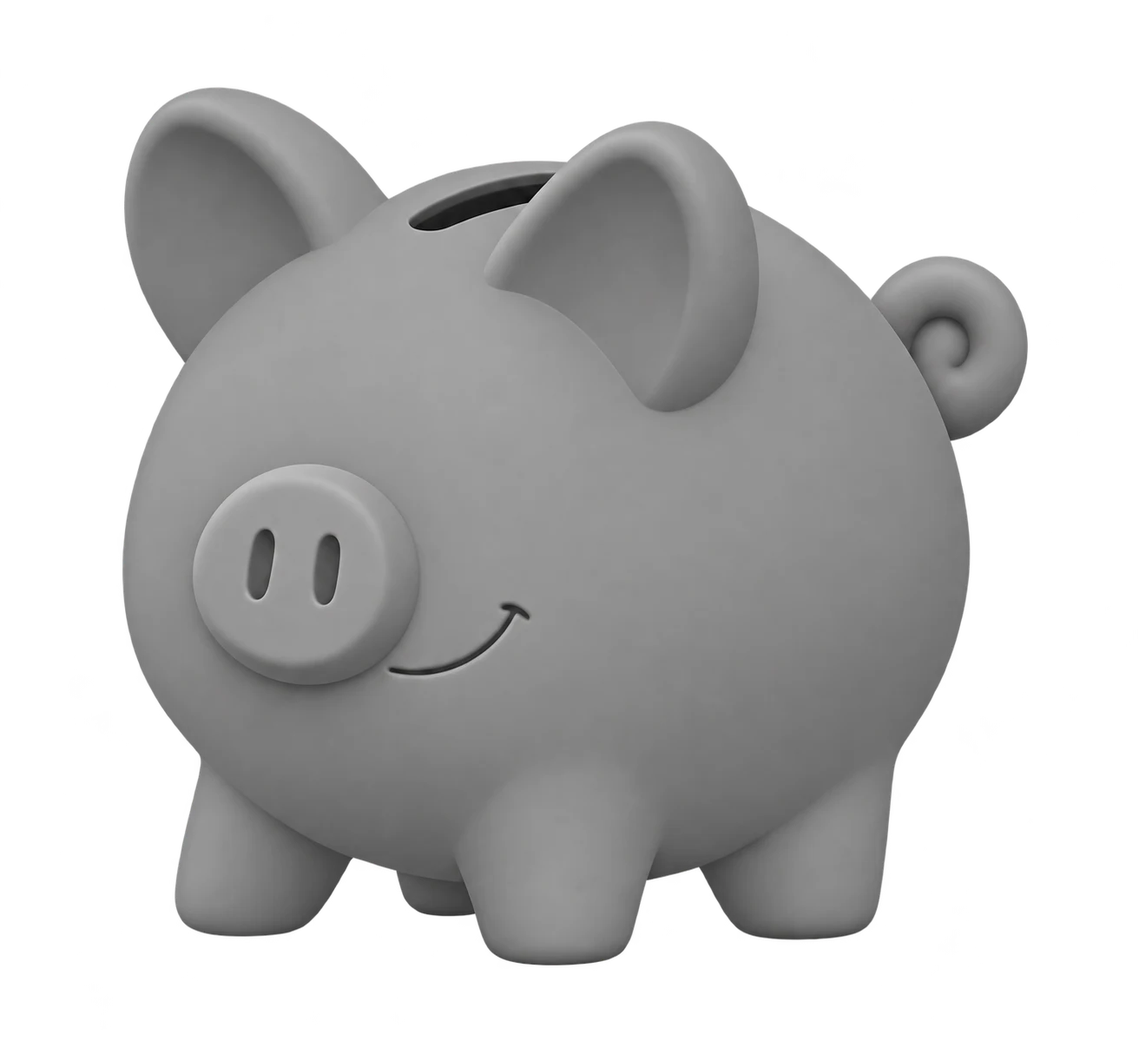
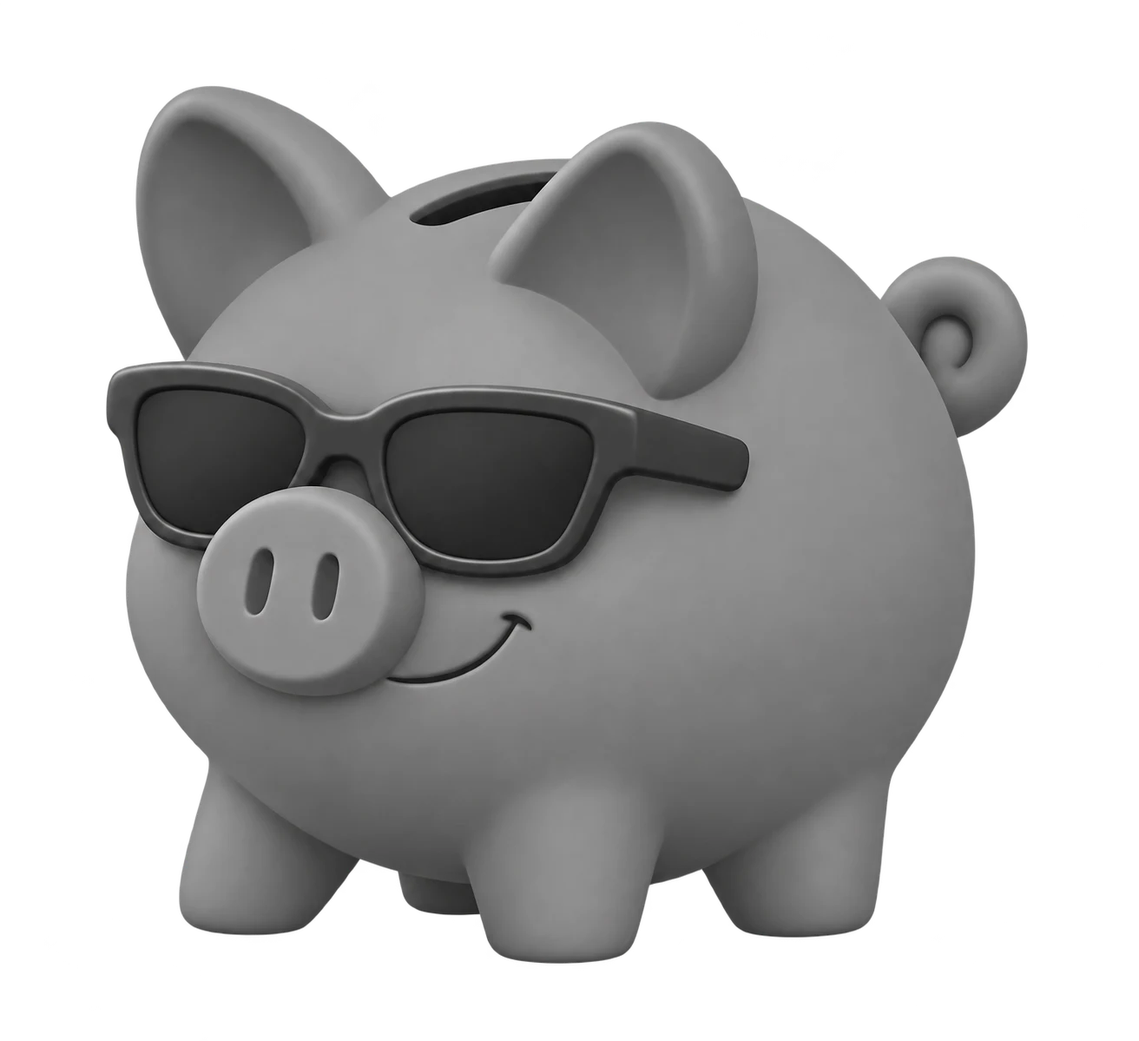
Use supplied pig art for savings
Replace layered accessories with the supplied glasses pig and one shared color control.

diff --git a/src/savings-ui.ts b/src/savings-ui.ts
@@ -1,17 +1,17 @@
 const css = String.raw`
-:root{color-scheme:dark}*{box-sizing:border-box}body{margin:0;background:radial-gradient(ellipse at 50% 0,#321a46,#0c0913 66%);color:#fbf5ff;font:16px/1.5 system-ui,sans-serif}main{width:min(100% - 32px,1080px);margin:auto;padding:26px 0 56px}a{color:inherit}h1{font-size:clamp(34px,6vw,52px);line-height:1.05;margin:14px 0 8px}h2{font-size:20px;margin:0 0 12px}p{color:#d2c1df}.muted{color:#b6a4c4;font-size:13px}.panel{border:1px solid #614078;border-radius:18px;background:linear-gradient(145deg,#21152c,#150f1d);padding:22px}.layout{display:grid;grid-template-columns:minmax(0,1.05fr) minmax(300px,.95fr);gap:16px}.pig-panel{display:grid;place-items:center;min-height:470px;overflow:hidden;background:radial-gradient(ellipse at 50% 70%,#69358955,transparent 57%),linear-gradient(145deg,#24132f,#130d1b)}.pig-wrap{position:relative;width:min(100%,440px);aspect-ratio:1.095;isolation:isolate;filter:drop-shadow(0 24px 32px #0007);animation:float 4.6s ease-in-out infinite}.pig-wrap img{position:absolute;display:block;object-fit:contain;pointer-events:none}.pig-body{inset:0;width:100%;height:100%}.accessory{z-index:2}.pig-wrap .glasses,.preview-small .glasses{width:67%;height:auto;left:8%;top:42%}.pig-wrap .crown,.preview-small .crown{width:61%;height:auto;left:20%;top:-1%}.tint{position:absolute;z-index:3;inset:0;background:var(--tint);mix-blend-mode:color;opacity:.88;pointer-events:none;mask-image:var(--mask);mask-repeat:no-repeat;mask-size:100% 100%;-webkit-mask-image:var(--mask);-webkit-mask-repeat:no-repeat;-webkit-mask-size:100% 100%}.pig-tint{--mask:url('/savings/assets/pig.webp');background:var(--pig-color)}.glasses-tint{left:8%;top:42%;width:67%;height:22%;--mask:url('/savings/assets/glasses.webp');background:var(--glasses-color)}.crown-tint{left:20%;top:-1%;width:61%;height:56%;--mask:url('/savings/assets/crown.webp');background:var(--crown-color)}.float{animation:float 4.6s ease-in-out infinite}.controls{display:grid;align-content:start;gap:14px}.copy{margin:0 0 6px;color:#cbb9d7}.row{display:flex;gap:10px;align-items:end;flex-wrap:wrap}.row>*{flex:1}.field{display:grid;gap:6px;font-weight:700}input,select,button{font:inherit;color:#fbf5ff;border:1px solid #674983;border-radius:10px;background:#120c19;padding:11px 13px}input[type=number],input[type=date]{width:100%}button{background:linear-gradient(135deg,#913cdf,#6428b2);font-weight:800;cursor:pointer;box-shadow:0 8px 20px #641fb42e}button.secondary{background:#24182f;box-shadow:none}button.danger{background:#311a28;border-color:#98506b;box-shadow:none}button:disabled{opacity:.55;cursor:default}.wide{width:100%}.choice{display:flex;gap:10px}.choice label{flex:1;display:flex;align-items:center;gap:8px;border:1px solid #57396d;border-radius:10px;background:#181020;padding:10px}.notice{min-height:22px;color:#e6c8ff}.notice.error{color:#ff9ba9}.info{border-top:1px solid #493259;padding-top:12px;font-size:13px;color:#c7b5d3}.saved-title{font-size:13px;letter-spacing:.12em;text-transform:uppercase;color:#caa8ea}.actions{display:flex;gap:10px;flex-wrap:wrap}.actions button{flex:1}.customize{margin-top:14px}.state-label{color:#f1d48f;font-weight:800}.dialog{width:min(520px,calc(100% - 24px));padding:0;border:1px solid #8158a1;border-radius:18px;background:#1b1224;color:#fff;box-shadow:0 25px 100px #000b}.dialog::backdrop{background:#08050dcc;backdrop-filter:blur(5px)}.dialog-inner{padding:22px}.dialog-head{display:flex;align-items:center;justify-content:space-between;gap:12px;margin-bottom:14px}.dialog-head h2{margin:0}.close{flex:0 0 auto;padding:7px 10px}.palette{display:grid;grid-template-columns:repeat(8,1fr);gap:8px;margin:12px 0 18px}.swatch{width:100%;aspect-ratio:1;border-radius:9px;padding:0;border:2px solid #ffffff44;box-shadow:none}.swatch.selected{outline:2px solid #fff;outline-offset:2px}.color-row{display:grid;grid-template-columns:1fr 56px;gap:10px;align-items:center}.color-row input[type=color]{width:56px;height:44px;padding:4px;cursor:pointer}.preview-small{position:relative;width:150px;aspect-ratio:1.095;margin:12px auto 18px}.preview-small img{position:absolute;width:100%;height:100%;object-fit:contain}.preview-small .glasses{width:67%;height:auto;left:8%;top:42%}.preview-small .crown{width:61%;height:auto;left:20%;top:-1%}.history{margin-top:16px}.history-item{display:flex;justify-content:space-between;gap:12px;padding:9px 0;border-bottom:1px solid #51385f;font-size:13px}.history-item small{color:#b6a4c4}[hidden]{display:none!important}@keyframes float{0%,100%{transform:translateY(0)}50%{transform:translateY(-8px)}}@media(max-width:760px){main{width:min(100% - 22px,560px);padding:18px 0 38px}.layout{grid-template-columns:1fr}.pig-panel{min-height:340px;padding:14px}.pig-wrap{width:min(92%,340px)}.panel{padding:17px}.actions{display:grid;grid-template-columns:1fr}.palette{grid-template-columns:repeat(6,1fr)}}@media(prefers-reduced-motion:reduce){.pig-wrap,.coin-rain i{animation:none!important}}
+:root{color-scheme:dark}*{box-sizing:border-box}body{margin:0;background:radial-gradient(ellipse at 50% 0,#321a46,#0c0913 66%);color:#fbf5ff;font:16px/1.5 system-ui,sans-serif}main{width:min(100% - 32px,1080px);margin:auto;padding:26px 0 56px}a{color:inherit}h1{font-size:clamp(34px,6vw,52px);line-height:1.05;margin:14px 0 8px}h2{font-size:20px;margin:0 0 12px}p{color:#d2c1df}.muted{color:#b6a4c4;font-size:13px}.panel{border:1px solid #614078;border-radius:18px;background:linear-gradient(145deg,#21152c,#150f1d);padding:22px}.layout{display:grid;grid-template-columns:minmax(0,1.05fr) minmax(300px,.95fr);gap:16px}.pig-panel{display:grid;place-items:center;min-height:470px;overflow:hidden;background:radial-gradient(ellipse at 50% 70%,#69358955,transparent 57%),linear-gradient(145deg,#24132f,#130d1b)}.pig-wrap{position:relative;width:min(100%,440px);aspect-ratio:1.095;isolation:isolate;filter:drop-shadow(0 24px 32px #0007);animation:float 4.6s ease-in-out infinite}.pig-wrap img{position:absolute;display:block;object-fit:contain;pointer-events:none}.pig-body{inset:0;width:100%;height:100%}.accessory{z-index:2}.tint{position:absolute;z-index:3;inset:0;background:var(--tint);mix-blend-mode:color;opacity:.88;pointer-events:none;mask-image:var(--mask);mask-repeat:no-repeat;mask-size:100% 100%;-webkit-mask-image:var(--mask);-webkit-mask-repeat:no-repeat;-webkit-mask-size:100% 100%}.pig-tint{--mask:url('/savings/assets/pig.webp');background:var(--pig-color)}.float{animation:float 4.6s ease-in-out infinite}.controls{display:grid;align-content:start;gap:14px}.copy{margin:0 0 6px;color:#cbb9d7}.row{display:flex;gap:10px;align-items:end;flex-wrap:wrap}.row>*{flex:1}.field{display:grid;gap:6px;font-weight:700}input,select,button{font:inherit;color:#fbf5ff;border:1px solid #674983;border-radius:10px;background:#120c19;padding:11px 13px}input[type=number],input[type=date]{width:100%}button{background:linear-gradient(135deg,#913cdf,#6428b2);font-weight:800;cursor:pointer;box-shadow:0 8px 20px #641fb42e}button.secondary{background:#24182f;box-shadow:none}button.danger{background:#311a28;border-color:#98506b;box-shadow:none}button:disabled{opacity:.55;cursor:default}.wide{width:100%}.choice{display:flex;gap:10px}.choice label{flex:1;display:flex;align-items:center;gap:8px;border:1px solid #57396d;border-radius:10px;background:#181020;padding:10px}.notice{min-height:22px;color:#e6c8ff}.notice.error{color:#ff9ba9}.info{border-top:1px solid #493259;padding-top:12px;font-size:13px;color:#c7b5d3}.saved-title{font-size:13px;letter-spacing:.12em;text-transform:uppercase;color:#caa8ea}.actions{display:flex;gap:10px;flex-wrap:wrap}.actions button{flex:1}.customize{margin-top:14px}.state-label{color:#f1d48f;font-weight:800}.dialog{width:min(520px,calc(100% - 24px));padding:0;border:1px solid #8158a1;border-radius:18px;background:#1b1224;color:#fff;box-shadow:0 25px 100px #000b}.dialog::backdrop{background:#08050dcc;backdrop-filter:blur(5px)}.dialog-inner{padding:22px}.dialog-head{display:flex;align-items:center;justify-content:space-between;gap:12px;margin-bottom:14px}.dialog-head h2{margin:0}.close{flex:0 0 auto;padding:7px 10px}.palette{display:grid;grid-template-columns:repeat(8,1fr);gap:8px;margin:12px 0 18px}.swatch{width:100%;aspect-ratio:1;border-radius:9px;padding:0;border:2px solid #ffffff44;box-shadow:none}.swatch.selected{outline:2px solid #fff;outline-offset:2px}.color-row{display:grid;grid-template-columns:1fr 56px;gap:10px;align-items:center}.color-row input[type=color]{width:56px;height:44px;padding:4px;cursor:pointer}.preview-small{position:relative;width:150px;aspect-ratio:1.095;margin:12px auto 18px}.preview-small img{position:absolute;width:100%;height:100%;object-fit:contain}.history{margin-top:16px}.history-item{display:flex;justify-content:space-between;gap:12px;padding:9px 0;border-bottom:1px solid #51385f;font-size:13px}.history-item small{color:#b6a4c4}[hidden]{display:none!important}@keyframes float{0%,100%{transform:translateY(0)}50%{transform:translateY(-8px)}}@media(max-width:760px){main{width:min(100% - 22px,560px);padding:18px 0 38px}.layout{grid-template-columns:1fr}.pig-panel{min-height:340px;padding:14px}.pig-wrap{width:min(92%,340px)}.panel{padding:17px}.actions{display:grid;grid-template-columns:1fr}.palette{grid-template-columns:repeat(6,1fr)}}@media(prefers-reduced-motion:reduce){.pig-wrap,.coin-rain i{animation:none!important}}
 `;
 
 const palette=['#7d24ff','#be2bff','#f22ac7','#ff3e9d','#ff315b','#ff6c4f','#ff9d00','#ffd500','#e8f044','#a5ff32','#48ff70','#00dfa7','#00dbe8','#2588ff','#465dff','#a8a8b3','#dedee5','#ffffff','#17131f','#674983'];
 
 export function savingsPage(admin=false){
-  return `<!doctype html><html lang="ru"><head><meta charset="utf-8"><meta name="viewport" content="width=device-width,initial-scale=1"><title>Накопления · Dropso</title><style>${css}</style></head><body data-admin="${admin}"><main><a href="${admin?'/admin':'/account'}">← ${admin?'Админка':'На главную'}</a><h1>Накопления</h1>${admin?`<section class="panel"><h2>Личные накопления</h2><div id="adminStats" class="muted">Загрузка…</div><div id="adminRows"></div><p id="notice" class="notice" role="status"></p></section>`:`<p class="copy">Откладывай монеты вручную и решай сам, когда продолжить или забрать накопленное.</p><div class="layout"><section class="panel pig-panel" aria-label="Твоя копилка"><div id="pig" class="pig-wrap" style="--pig-color:#a5a5a9;--glasses-color:#25232d;--crown-color:#c3c2c8"><img class="pig-body" src="/savings/assets/pig.webp" width="1312" height="1199" alt="Серая свинья-копилка"><i class="tint pig-tint"></i><img class="accessory glasses" src="/savings/assets/glasses.webp" width="2172" height="724" alt=""><i class="tint glasses-tint"></i><img class="accessory crown" src="/savings/assets/crown.webp" width="1312" height="1199" alt=""><i class="tint crown-tint"></i></div></section><section class="panel controls"><div id="setup"><div class="saved-title">Начни копить</div><p class="muted">Выбери условие окончания. Цель по сумме — от 500 монет. Срок — от 10 дней.</p><div class="choice"><label><input type="radio" name="goalType" value="amount" checked> Сумма</label><label><input type="radio" name="goalType" value="date"> Дата</label></div><label id="amountField" class="field">Цель накопления, монет<input id="goalAmount" type="number" min="500" step="1" value="500" inputmode="numeric"></label><label id="dateField" class="field" hidden>Дата окончания<input id="goalAt" type="date"></label><button id="start" class="wide">Включить копилку</button><p id="pricing" class="info"></p></div><div id="active" hidden><div class="saved-title">Копилка работает</div><p id="goalLabel" class="muted"></p><label class="field">Внести монеты<input id="depositAmount" type="number" min="1" step="1" value="50" inputmode="numeric"></label><button id="deposit" class="wide">Положить в копилку</button><div id="readyActions" class="actions" hidden><button id="extend" class="secondary">Продлить</button><button id="break" class="danger">Разбить</button></div><div id="extendForm" hidden><p class="muted">Продление бесплатно. Выбери новую цель: ещё от 500 монет или срок от 10 дней.</p><div class="choice"><label><input type="radio" name="extendType" value="amount" checked> Сумма</label><label><input type="radio" name="extendType" value="date"> Дата</label></div><label id="extendAmountField" class="field">Добавить к цели, монет<input id="extendAmount" type="number" min="500" step="1" value="500"></label><label id="extendDateField" class="field" hidden>Дата окончания<input id="extendAt" type="date"></label><div class="actions"><button id="confirmExtend">Сохранить продление</button><button id="cancelExtend" class="secondary">Отмена</button></div></div></div><div class="notice" id="notice" role="status" aria-live="polite"></div><button id="customize" class="secondary wide customize">Настроить цвета</button></section></div><section class="panel history"><h2>История</h2><div id="history"></div></section><dialog id="colorDialog" class="dialog"><div class="dialog-inner"><div class="dialog-head"><h2>Настроить цвета</h2><button id="closeColors" class="secondary close" type="button">Закрыть</button></div><label class="field" for="element">Элемент</label><select id="element"><option value="pig">Свинья</option><option value="glasses">Очки</option><option value="crown">Корона</option></select><div id="smallPreview" class="preview-small"><img class="pig-body" src="/savings/assets/pig.webp" alt=""><i class="tint pig-tint"></i><img class="accessory glasses" src="/savings/assets/glasses.webp" alt=""><i class="tint glasses-tint"></i><img class="accessory crown" src="/savings/assets/crown.webp" alt=""><i class="tint crown-tint"></i></div><label class="field" for="colorPicker">Цвет</label><div class="color-row"><span id="colorValue"></span><input id="colorPicker" type="color" value="#a5a5a9" aria-label="Выбрать цвет"></div><div id="palette" class="palette"></div><button id="saveColors" class="wide">Сохранить цвета</button><p id="colorNotice" class="notice" role="status"></p></div></dialog>`}</main><script src="/savings.js" defer></script></body></html>`;
+  return `<!doctype html><html lang="ru"><head><meta charset="utf-8"><meta name="viewport" content="width=device-width,initial-scale=1"><title>Накопления · Dropso</title><style>${css}</style></head><body data-admin="${admin}"><main><a href="${admin?'/admin':'/account'}">← ${admin?'Админка':'На главную'}</a><h1>Накопления</h1>${admin?`<section class="panel"><h2>Личные накопления</h2><div id="adminStats" class="muted">Загрузка…</div><div id="adminRows"></div><p id="notice" class="notice" role="status"></p></section>`:`<p class="copy">Откладывай монеты вручную и решай сам, когда продолжить или забрать накопленное.</p><div class="layout"><section class="panel pig-panel" aria-label="Твоя копилка"><div id="pig" class="pig-wrap" style="--pig-color:#a5a5a9"><img class="pig-body" src="/savings/assets/pig.webp" width="1312" height="1199" alt="Свинья-копилка в очках"><i class="tint pig-tint"></i></div></section><section class="panel controls"><div id="setup"><div class="saved-title">Начни копить</div><p class="muted">Выбери условие окончания. Цель по сумме — от 500 монет. Срок — от 10 дней.</p><div class="choice"><label><input type="radio" name="goalType" value="amount" checked> Сумма</label><label><input type="radio" name="goalType" value="date"> Дата</label></div><label id="amountField" class="field">Цель накопления, монет<input id="goalAmount" type="number" min="500" step="1" value="500" inputmode="numeric"></label><label id="dateField" class="field" hidden>Дата окончания<input id="goalAt" type="date"></label><button id="start" class="wide">Включить копилку</button><p id="pricing" class="info"></p></div><div id="active" hidden><div class="saved-title">Копилка работает</div><p id="goalLabel" class="muted"></p><label class="field">Внести монеты<input id="depositAmount" type="number" min="1" step="1" value="50" inputmode="numeric"></label><button id="deposit" class="wide">Положить в копилку</button><div id="readyActions" class="actions" hidden><button id="extend" class="secondary">Продлить</button><button id="break" class="danger">Разбить</button></div><div id="extendForm" hidden><p class="muted">Продление бесплатно. Выбери новую цель: ещё от 500 монет или срок от 10 дней.</p><div class="choice"><label><input type="radio" name="extendType" value="amount" checked> Сумма</label><label><input type="radio" name="extendType" value="date"> Дата</label></div><label id="extendAmountField" class="field">Добавить к цели, монет<input id="extendAmount" type="number" min="500" step="1" value="500"></label><label id="extendDateField" class="field" hidden>Дата окончания<input id="extendAt" type="date"></label><div class="actions"><button id="confirmExtend">Сохранить продление</button><button id="cancelExtend" class="secondary">Отмена</button></div></div></div><div class="notice" id="notice" role="status" aria-live="polite"></div><button id="customize" class="secondary wide customize">Настроить цвета</button></section></div><section class="panel history"><h2>История</h2><div id="history"></div></section><dialog id="colorDialog" class="dialog"><div class="dialog-inner"><div class="dialog-head"><h2>Настроить цвета</h2><button id="closeColors" class="secondary close" type="button">Закрыть</button></div><p class="muted">Общий цвет свиньи и очков</p><div id="smallPreview" class="preview-small"><img class="pig-body" src="/savings/assets/pig.webp" alt=""><i class="tint pig-tint"></i></div><label class="field" for="colorPicker">Цвет</label><div class="color-row"><span id="colorValue"></span><input id="colorPicker" type="color" value="#a5a5a9" aria-label="Выбрать цвет"></div><div id="palette" class="palette"></div><button id="saveColors" class="wide">Сохранить цвета</button><p id="colorNotice" class="notice" role="status"></p></div></dialog>`}</main><script src="/savings.js" defer></script></body></html>`;
 }
 
 export const savingsScript=String.raw`
 (()=>{
  const $=id=>document.getElementById(id), admin=document.body.dataset.admin==='true';let state=null,busy=false;
- const defaults={pig:'#a5a5a9',glasses:'#25232d',crown:'#c3c2c8'},colors={...defaults};
+ const defaults={pig:'#a5a5a9'},colors={...defaults};
  const presets=${JSON.stringify(palette)};
  const setColor=(key,value)=>{colors[key]=value;const pig=$('pig');if(pig){pig.style.setProperty('--'+key+'-color',value)}const small=$('smallPreview');if(small){small.style.setProperty('--'+key+'-color',value)}};
  function notice(message,error=false,target='notice'){const n=$(target);if(!n)return;n.textContent=message;n.classList.toggle('error',error)}
@@ -32,8 +32,8 @@ export const savingsScript=String.raw`
  $('extend').onclick=()=>{$('extendForm').hidden=false;$('deposit').hidden=true;$('readyActions').hidden=true};$('cancelExtend').onclick=()=>{if(state?.status==='ready'){$('extendForm').hidden=true;$('readyActions').hidden=false}};
  $('confirmExtend').onclick=async()=>{if(busy)return;const t=document.querySelector('input[name="extendType"]:checked').value,g=goal(t,'extend');if(t==='amount'&&Number(g.amount)<500)return notice('Добавь к цели не менее 500 монет.',true);if(t==='date'&&new Date(g.goalAt).getTime()<Date.now()+10*86400000)return notice('Выбери дату не раньше чем через 10 дней.',true);busy=true;try{await request('/api/savings/extend',{...g,requestId:requestId()});await load();notice('Копилка продлена.')}catch(e){notice(errorMessage(e),true)}finally{busy=false}};
  $('break').onclick=async()=>{if(busy||!confirm('Разбить копилку? Монеты после комиссии вернутся на баланс.'))return;busy=true;try{await request('/api/savings/break',{requestId:requestId()});await load();notice('Копилка разбита. Монеты зачислены на баланс.')}catch(e){notice(errorMessage(e),true)}finally{busy=false}};
- $('customize').onclick=()=>{$('element').value='pig';updatePicker();$('colorDialog').showModal()};$('closeColors').onclick=()=>$('colorDialog').close();$('element').onchange=updatePicker;$('colorPicker').oninput=()=>{const k=$('element').value;setColor(k,$('colorPicker').value);$('colorValue').textContent=$('colorPicker').value.toUpperCase();document.querySelectorAll('.swatch').forEach(b=>b.classList.toggle('selected',b.dataset.color===$('colorPicker').value))};
- function updatePicker(){const k=$('element').value;$('colorPicker').value=colors[k];$('colorValue').textContent=colors[k].toUpperCase();$('palette').replaceChildren(...presets.map(color=>{const b=document.createElement('button');b.type='button';b.className='swatch'+(color===colors[k]?' selected':'');b.dataset.color=color;b.style.backgroundColor=color;b.setAttribute('aria-label',color);b.onclick=()=>{$('colorPicker').value=color;$('colorPicker').dispatchEvent(new Event('input'))};return b}))}
+ $('customize').onclick=()=>{updatePicker();$('colorDialog').showModal()};$('closeColors').onclick=()=>$('colorDialog').close();$('colorPicker').oninput=()=>{const k='pig';setColor(k,$('colorPicker').value);$('colorValue').textContent=$('colorPicker').value.toUpperCase();document.querySelectorAll('.swatch').forEach(b=>b.classList.toggle('selected',b.dataset.color===$('colorPicker').value))};
+ function updatePicker(){const k='pig';$('colorPicker').value=colors[k];$('colorValue').textContent=colors[k].toUpperCase();$('palette').replaceChildren(...presets.map(color=>{const b=document.createElement('button');b.type='button';b.className='swatch'+(color===colors[k]?' selected':'');b.dataset.color=color;b.style.backgroundColor=color;b.setAttribute('aria-label',color);b.onclick=()=>{$('colorPicker').value=color;$('colorPicker').dispatchEvent(new Event('input'))};return b}))}
  $('saveColors').onclick=async()=>{busy=true;$('saveColors').disabled=true;try{await request('/api/savings/colors',colors);paint();$('colorDialog').close();notice('Цвета сохранены.')}catch(e){notice(errorMessage(e),true,'colorNotice')}finally{busy=false;$('saveColors').disabled=false}};
  function errorMessage(e){return ({insufficient_coins:'На балансе не хватает монет.',participation_restricted:'Для аккаунта ограничено участие.',cycle_not_ready:'Копилку пока нельзя разбить или продлить.',invalid_goal:'Проверь цель: сумма минимум 500 монет или дата минимум через 10 дней.',already_active:'Копилка уже работает.'})[e.message]||'Не удалось выполнить действие. Попробуй ещё раз.'}
  if(admin){request('/api/admin/savings').then(d=>{$('adminStats').textContent='Активных копилок: '+d.active+' · Разбиты: '+d.completed+' · Удержанные комиссии: '+d.fees+' мон.';$('adminRows').replaceChildren(...d.rows.map(x=>{const row=document.createElement('div');row.className='history-item';const a=document.createElement('span');a.textContent=x.name+' · '+(x.status==='ready'?'ожидает решения':'активна');const b=document.createElement('small');b.textContent=x.created;row.append(a,b);return row}))}).catch(e=>notice(errorMessage(e),true));return}load();

diff --git a/src/savings.ts b/src/savings.ts
@@ -15,14 +15,14 @@ export function installSavings(app:Express,db:SupabaseClient,user:RequestHandler
  };
  const rpc=async(res:Response,actor:string,action:string,body:any={})=>{
   const {data,error}=await db.rpc('rewards_personal_savings_rpc',{p_actor:actor,p_action:action,p_body:body});
-  if(error)return fail(res,error);res.json(data);
+  if(error)return fail(res,error);if(action==='state'&&data?.colors)data.colors={pig:data.colors.pig};res.json(data);
  };
  app.get('/savings',noStore,user,(_q,r)=>r.send(savingsPage(false)));
  app.get('/piggy-bank',noStore,user,(_q,r)=>r.redirect(302,'/savings'));
  app.get('/admin/savings',noStore,admin,(_q,r)=>r.send(savingsPage(true)));
  app.get('/admin/piggy-bank',noStore,admin,(_q,r)=>r.redirect(302,'/admin/savings'));
  app.get('/savings/assets/:file',(q,r)=>{
-  const files:Record<string,string>={'pig.webp':'pig.webp','glasses.webp':'glasses.webp','crown.webp':'crown.webp'};
+  const files:Record<string,string>={'pig.webp':'pig.webp'};
   const file=files[q.params.file];if(!file)return r.sendStatus(404);
   r.type('webp').set('Cache-Control','public,max-age=31536000,immutable').sendFile(fileURLToPath(new URL('../public/savings/'+file,import.meta.url)));
  });
@@ -33,7 +33,7 @@ export function installSavings(app:Express,db:SupabaseClient,user:RequestHandler
   const b=q.body,a=String(q.params.action);
   if(!b||Array.isArray(b)||typeof b!=='object')return r.status(400).json({error:'invalid_request'});
   if(a==='colors'){
-   const keys=['pig','glasses','crown'];if(Object.keys(b).length!==keys.length||keys.some(k=>!hex.test(b[k])))return r.status(400).json({error:'invalid_request'});
+   const keys=['pig'];if(Object.keys(b).length!==keys.length||keys.some(k=>!hex.test(b[k])))return r.status(400).json({error:'invalid_request'});
   }else if(['start','extend'].includes(a)){
    const goalKeys=b.goalType==='amount'?['goalType','amount','requestId']:['goalType','goalAt','requestId'];
    if(Object.keys(b).length!==goalKeys.length||Object.keys(b).some(k=>!goalKeys.includes(k))||!uuid.test(b.requestId))return r.status(400).json({error:'invalid_request'});
@@ -47,7 +47,7 @@ export function installSavings(app:Express,db:SupabaseClient,user:RequestHandler
   }else if(a==='break'){
    if(Object.keys(b).length!==1||!uuid.test(b.requestId))return r.status(400).json({error:'invalid_request'});
   }else return r.status(404).json({error:'invalid_request'});
-  return rpc(r,r.locals.session.twitchUserId,a,b);
+  return rpc(r,r.locals.session.twitchUserId,a,a==='colors'?{pig:b.pig,glasses:b.pig,crown:b.pig}:b);
  });
  app.get('/api/admin/savings',noStore,admin,async(_q,r)=>rpc(r,r.locals.session.twitchUserId,'admin_state'));
  // Finish any old shared-piggy entries already accepted before this feature replaced it.
